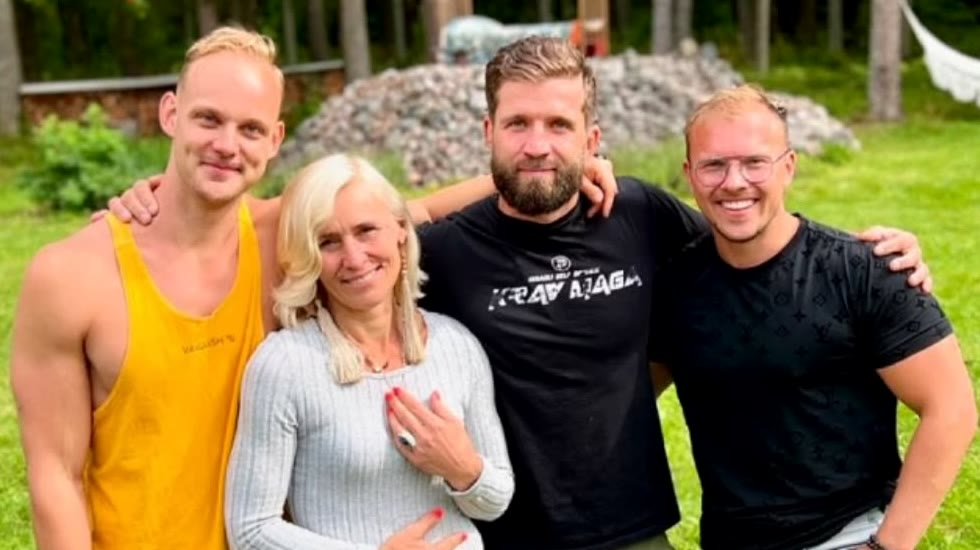
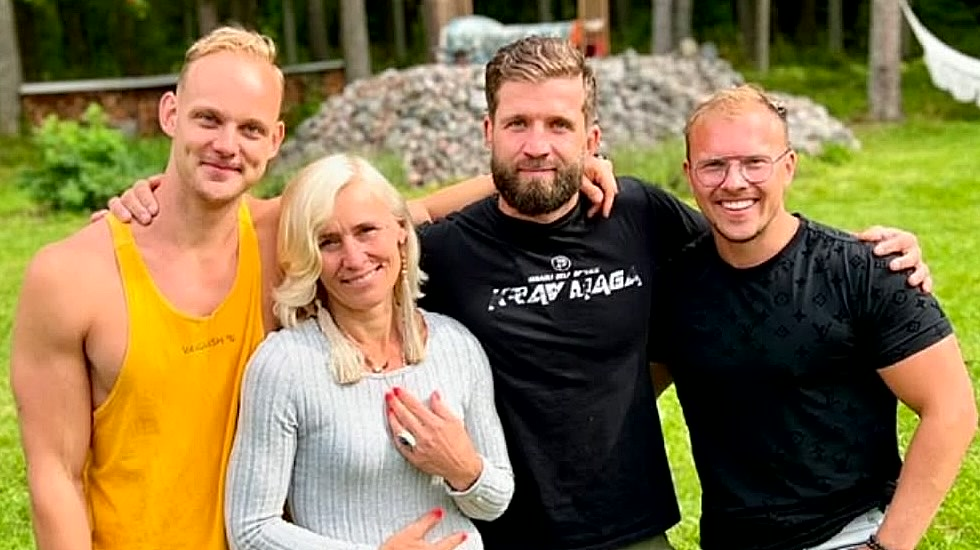
Kompass: Südame photo sharper

diff --git a/index.html b/index.html
@@ -561,7 +561,7 @@
     $("r-mc-sub").textContent = (st.sex === "naine" ? SUB_W[main] : SUB_M[main]) || head[1];
     $("r-mc-list").innerHTML = ((st.sex === "naine" && OFFER_W[main]) || OFFER[main] || []).map(([b, t]) => `<li style="margin:0 0 8px;font-size:14.5px;line-height:1.45">✓ <b>${b}</b>${t}</li>`).join("");
     $("r-course-btn").href = payOf(main) || "#";
-    const IMGV = "0532";   // bump when a photo is swapped (beats browser + CDN cache)
+    const IMGV = "0536";   // bump when a photo is swapped (beats browser + CDN cache)
     const bg = `assets/bg/${main}-${st.sex === "naine" ? "n" : "m"}.jpg?v=${IMGV}`;
     const NO_IMG = [];   // new photos coming 29.10; hide banner until then
     $("r-mc-img").src = bg; $("r-mc-img").style.display = NO_IMG.includes(`${main}-${st.sex === "naine" ? "n" : "m"}`) ? "none" : "";
